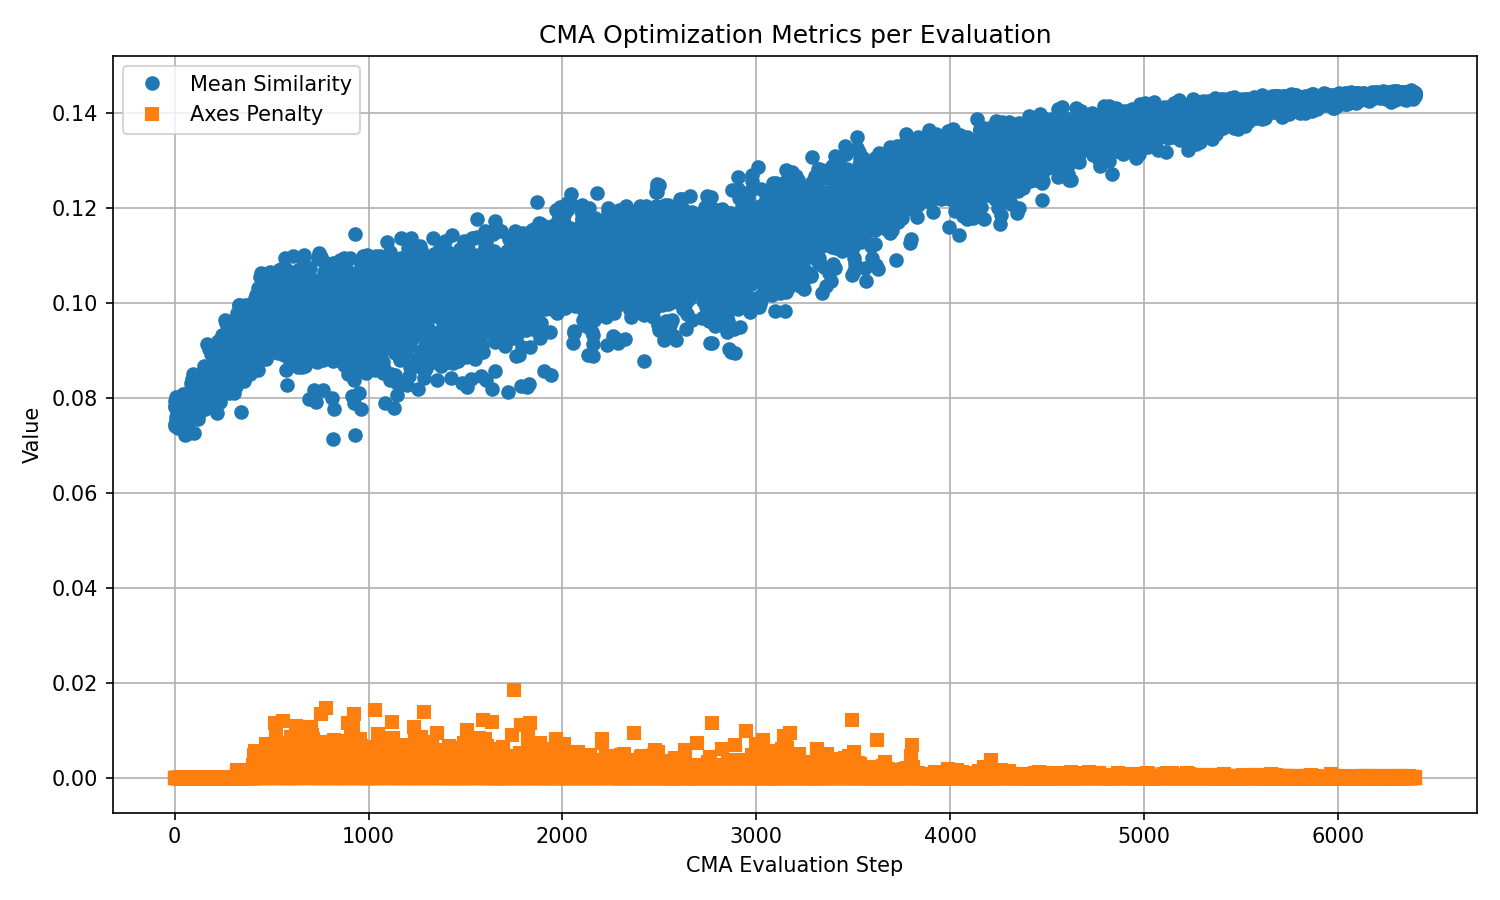
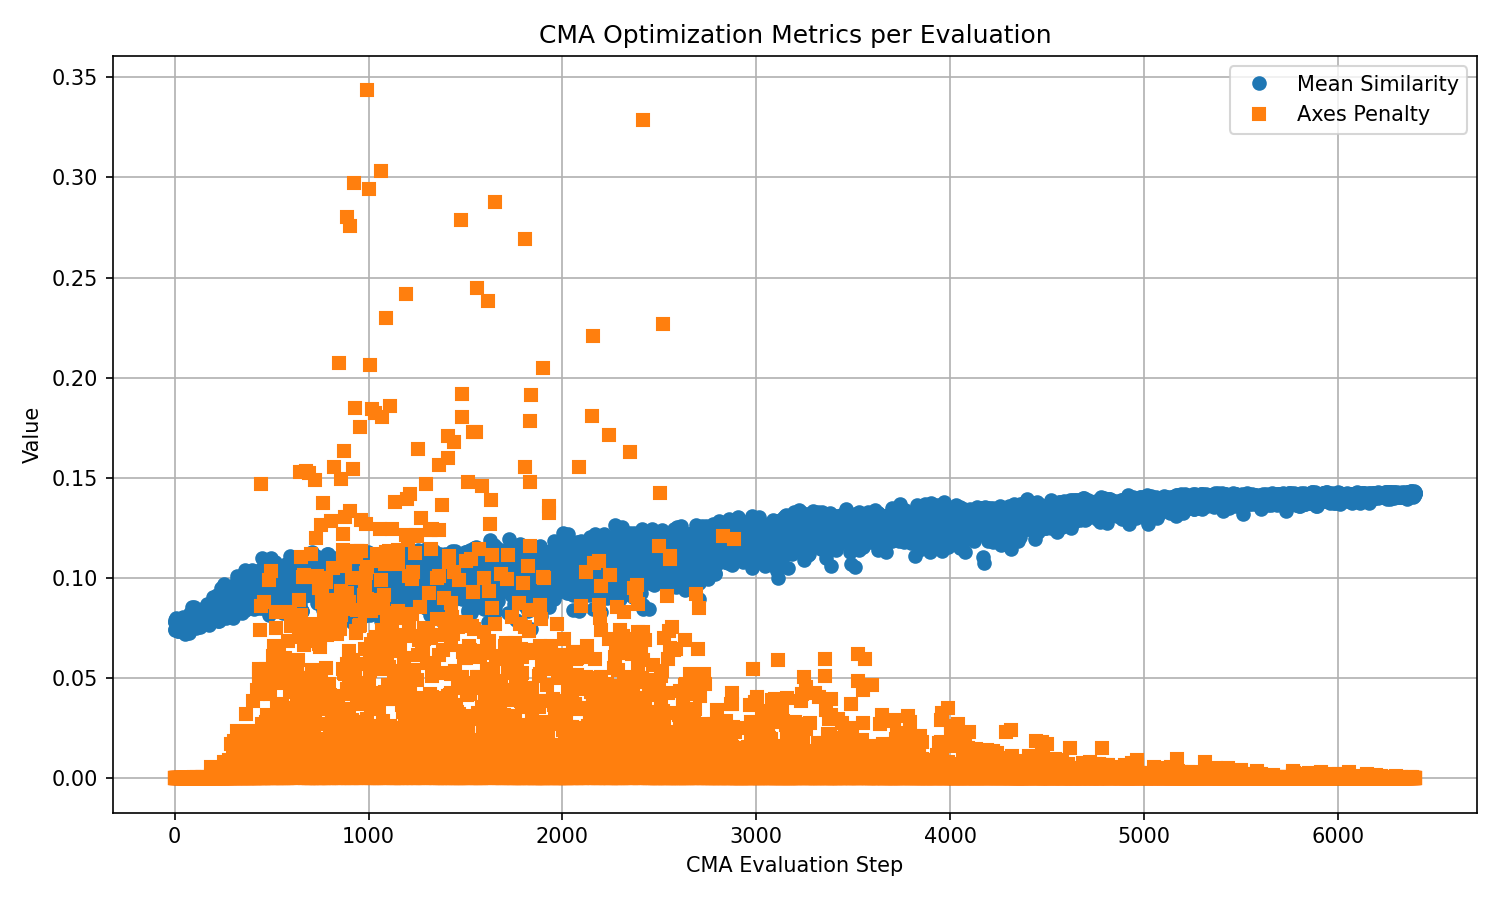
changed from relative constraint to absolute constraint

diff --git a/utils/helpers.py b/utils/helpers.py
@@ -29,11 +29,10 @@ def compute_inter_vertebral_displacement_penalty(moved_centroids, case_centroids
         # rel position in TRANSFORMED space
         relative_vec = moved_centroids[k+1] - moved_centroids[k]
         
-        # Transform the original CT axes using the rotation matrices
+        # Transform the vertebra k
         tx_k = transforms_list[k]
         rotation_k = np.array(tx_k.GetMatrix()).reshape(3, 3)
         LM_axis_k_orig, AP_axis_k_orig, SI_axis_k_orig = case_axes[k]
-        
         LM_axis_k_transformed = rotation_k @ LM_axis_k_orig
         AP_axis_k_transformed = rotation_k @ AP_axis_k_orig
         SI_axis_k_transformed = rotation_k @ SI_axis_k_orig
@@ -42,7 +41,6 @@ def compute_inter_vertebral_displacement_penalty(moved_centroids, case_centroids
         tx_k1 = transforms_list[k+1]
         rotation_k1 = np.array(tx_k1.GetMatrix()).reshape(3, 3)
         LM_axis_k1_orig, AP_axis_k1_orig, SI_axis_k1_orig = case_axes[k+1]
-        
         LM_axis_k1_transformed = rotation_k1 @ LM_axis_k1_orig
         AP_axis_k1_transformed = rotation_k1 @ AP_axis_k1_orig
         SI_axis_k1_transformed = rotation_k1 @ SI_axis_k1_orig
@@ -57,30 +55,29 @@ def compute_inter_vertebral_displacement_penalty(moved_centroids, case_centroids
         SI_axis_avg = (SI_axis_k_transformed + SI_axis_k1_transformed) / 2.0
         SI_axis_avg = SI_axis_avg / np.linalg.norm(SI_axis_avg)
         
+
         # project relative position onto averaged transformed axes
         LM_component = abs(np.dot(relative_vec, LM_axis_avg))
         AP_component = abs(np.dot(relative_vec, AP_axis_avg))
         SI_component = abs(np.dot(relative_vec, SI_axis_avg))
         
-        # expected separation (from original CT)
-        # project original relative position onto averaged transformed axes too
+
+        # Penalize if lateral or AP separation is too large (anatomically implausible)
+        LM_magnitude = abs(LM_component)
+        AP_magnitude = abs(AP_component)
+        
+        LM_violation = max(0.0, LM_magnitude - margins['LM'])
+        AP_violation = max(0.0, AP_magnitude - margins['AP'])
+        
+        # For SI: Check if compression/extension is excessive
+        # We expect some SI separation, so check change from original
         original_relative_vec = case_centroids[k+1] - case_centroids[k]
-        
-        LM_expected = abs(np.dot(original_relative_vec, LM_axis_avg))
-        AP_expected = abs(np.dot(original_relative_vec, AP_axis_avg))
-        SI_expected = abs(np.dot(original_relative_vec, SI_axis_avg))
-        
-        # check for sliding: did LM/AP components deviate?
-        LM_deviation = abs(LM_component - LM_expected)
-        AP_deviation = abs(AP_component - AP_expected)
-        SI_deviation = abs(SI_component - SI_expected)
-        
-        # penalize deviations beyond margins
-        LM_violation = max(0.0, LM_deviation - margins['LM'])
-        AP_violation = max(0.0, AP_deviation - margins['AP'])
-        SI_violation = max(0.0, SI_deviation - margins['SI'])
-        
+        original_SI = abs(np.dot(original_relative_vec, SI_axis_avg))
+        SI_change = abs(abs(SI_component) - original_SI)
+        SI_violation = max(0.0, SI_change - margins['SI'])
+
         penalty += LM_violation**2 + AP_violation**2 + SI_violation**2
+
     
     return penalty / float(K - 1)
 

diff --git a/groupwise_GPU.py b/groupwise_GPU.py
@@ -100,11 +100,11 @@ def evaluate_group_gpu(flat_params, K, centers, sampled_positions_list,
 
 
     # INTER-VERTEBRAL DISPLACEMENT PENALTY
-    lambda_axes = 0.0005
+    lambda_axes = 0.01
     axes_margins = { # mm values
         'LM': 3.0,  # STRICT - very little Lateral-Medial sliding
         'AP': 3.0,  # Anterior-Posterior margin Anterior-Posterior
-        'SI': 15.0   # RELAXED - allow free movement
+        'SI': 5.0   # RELAXED - allow some compression of IVD
     }
     # compute penalty per axes
     axes_penalty = compute_inter_vertebral_displacement_penalty(
